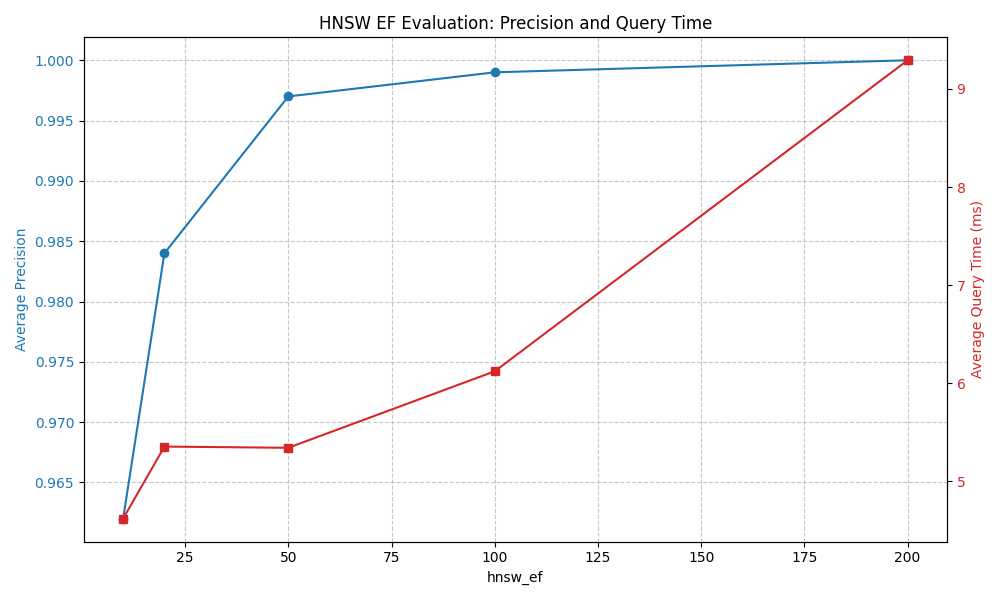
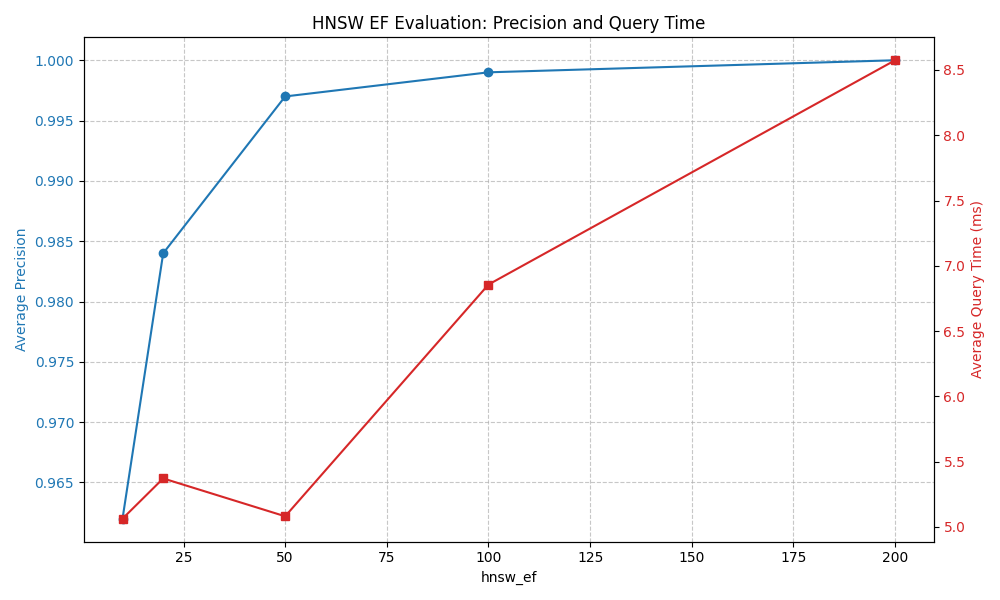
added reflection on the results in task2_reflection.md

diff --git a/precision_measurement.py b/precision_measurement.py
@@ -82,6 +82,7 @@ def evaluate_hnsw_ef(k: int, hnsw_ef_values: list[int], test_dataset: dict[str, 
     client = QdrantClient(host=QDRANT_HOST, port=QDRANT_PORT)
     knn_results = get_ground_truth(client, test_dataset, k)
     ground_truth = knn_results.ground_truth
+    print(f"Average exact query time: {knn_results.avg_time * 1000:.2f} ms")
 
     results = []
     for ef in hnsw_ef_values:
@@ -120,6 +121,7 @@ def plot_results(results: list[dict]):
 
 
 def precision_at_K(test_dataset: dict[str, list[float]], k: int) -> None:
+    """ Calculates the average precision at k for a given dataset. """
     client = QdrantClient(host=QDRANT_HOST, port=QDRANT_PORT)
     knn = get_ground_truth(client, test_dataset, k)
 

diff --git a/task2_reflection.md b/task2_reflection.md
@@ -1,0 +1,43 @@
+Increasing the exploration factor improved precision up to 100% at ef=200, but also increased the average query time.
+
+Query time results varied a bit between different runs, but the overall trend remained the same. Here are the logged 
+values and a plot for a single run:
+
+```
+Average exact query time: 88.92 ms
+[
+    {
+        "hnsw_ef": 10,
+        "avg_precision": 0.9620000000000001,
+        "avg_query_time_ms": 5.06289005279541
+    },
+    {
+        "hnsw_ef": 20,
+        "avg_precision": 0.9840000000000001,
+        "avg_query_time_ms": 5.371119976043701
+    },
+    {
+        "hnsw_ef": 50,
+        "avg_precision": 0.997,
+        "avg_query_time_ms": 5.08098840713501
+    },
+    {
+        "hnsw_ef": 100,
+        "avg_precision": 0.9990000000000001,
+        "avg_query_time_ms": 6.856276988983154
+    },
+    {
+        "hnsw_ef": 200,
+        "avg_precision": 1.0,
+        "avg_query_time_ms": 8.574371337890625
+    }
+]
+```
+<img src="hnsw_ef_evaluation.png" alt="plot" width="800"/>
+
+
+It appears that up to an ef=50, the increase in query time is negligible, while precision gains are still 
+relatively large. This seems to be a sweet spot in this particular case in terms of tradeoff between precision and speed.
+Beyond that point, computation time increases more significantly, and the precision gains are much smaller. Nevertheless, if 
+exact results are needed, the query time for ef=200 was still about 8-10x faster than the exact search.
+
